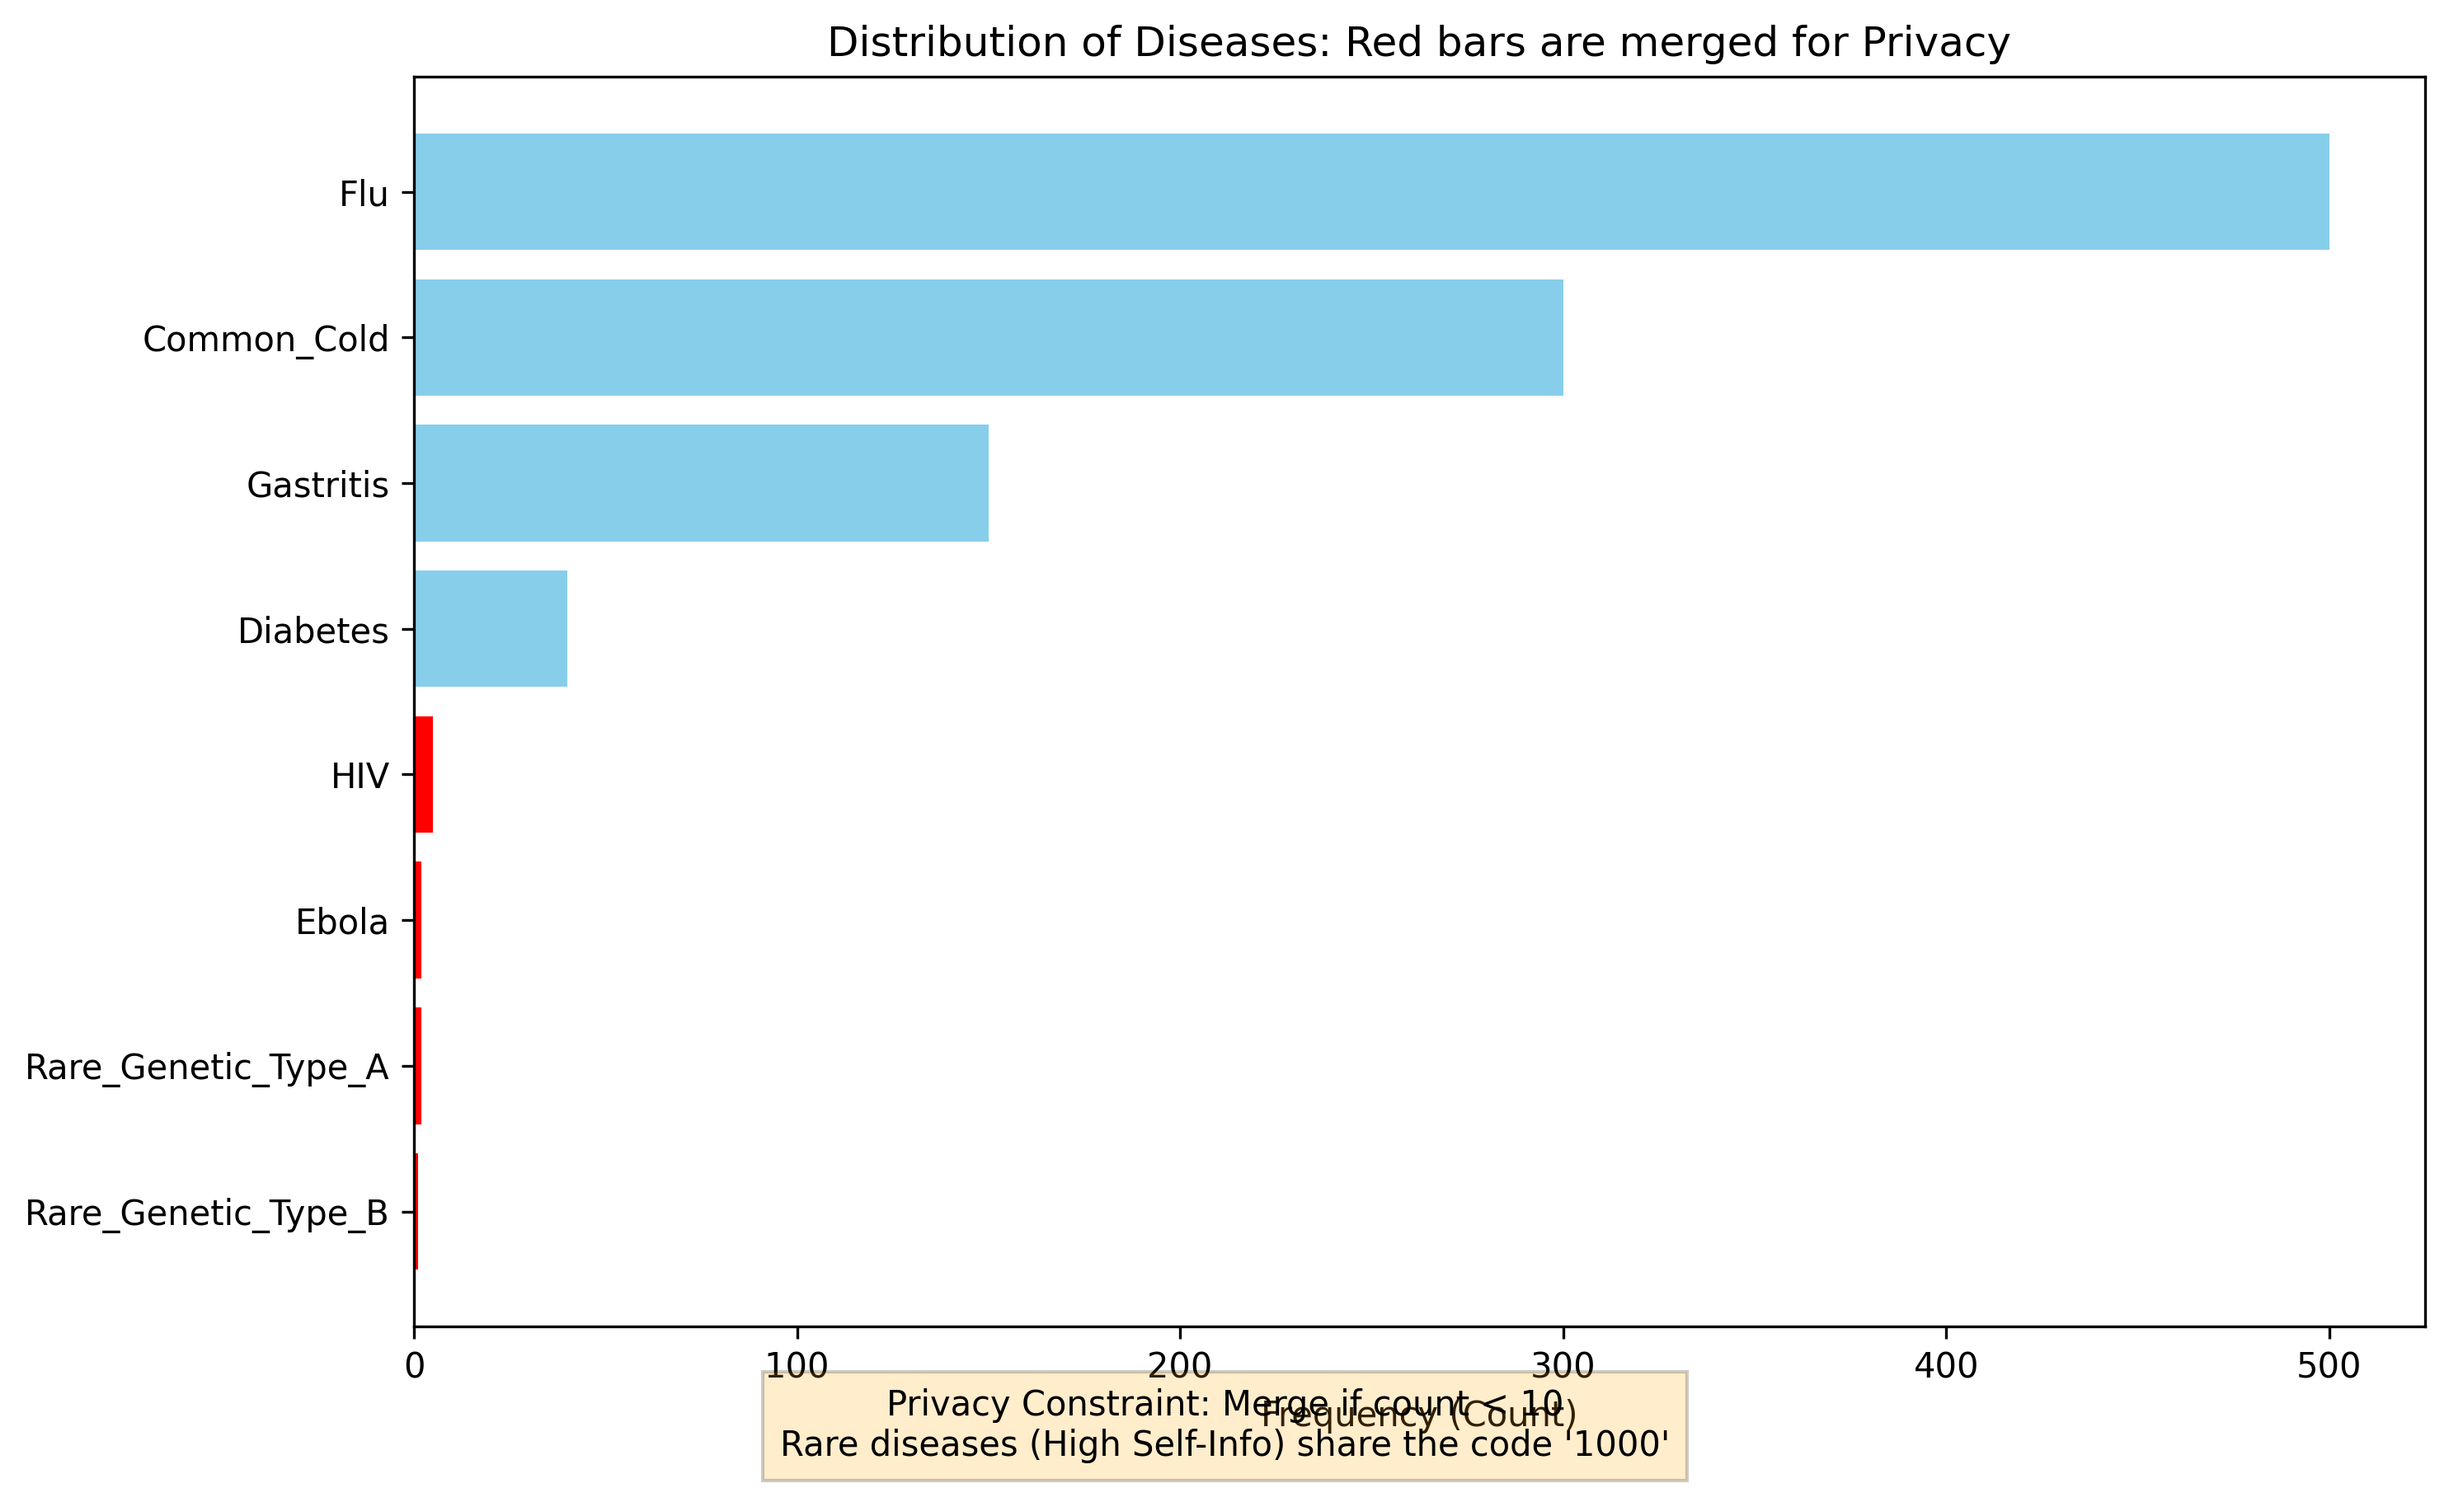
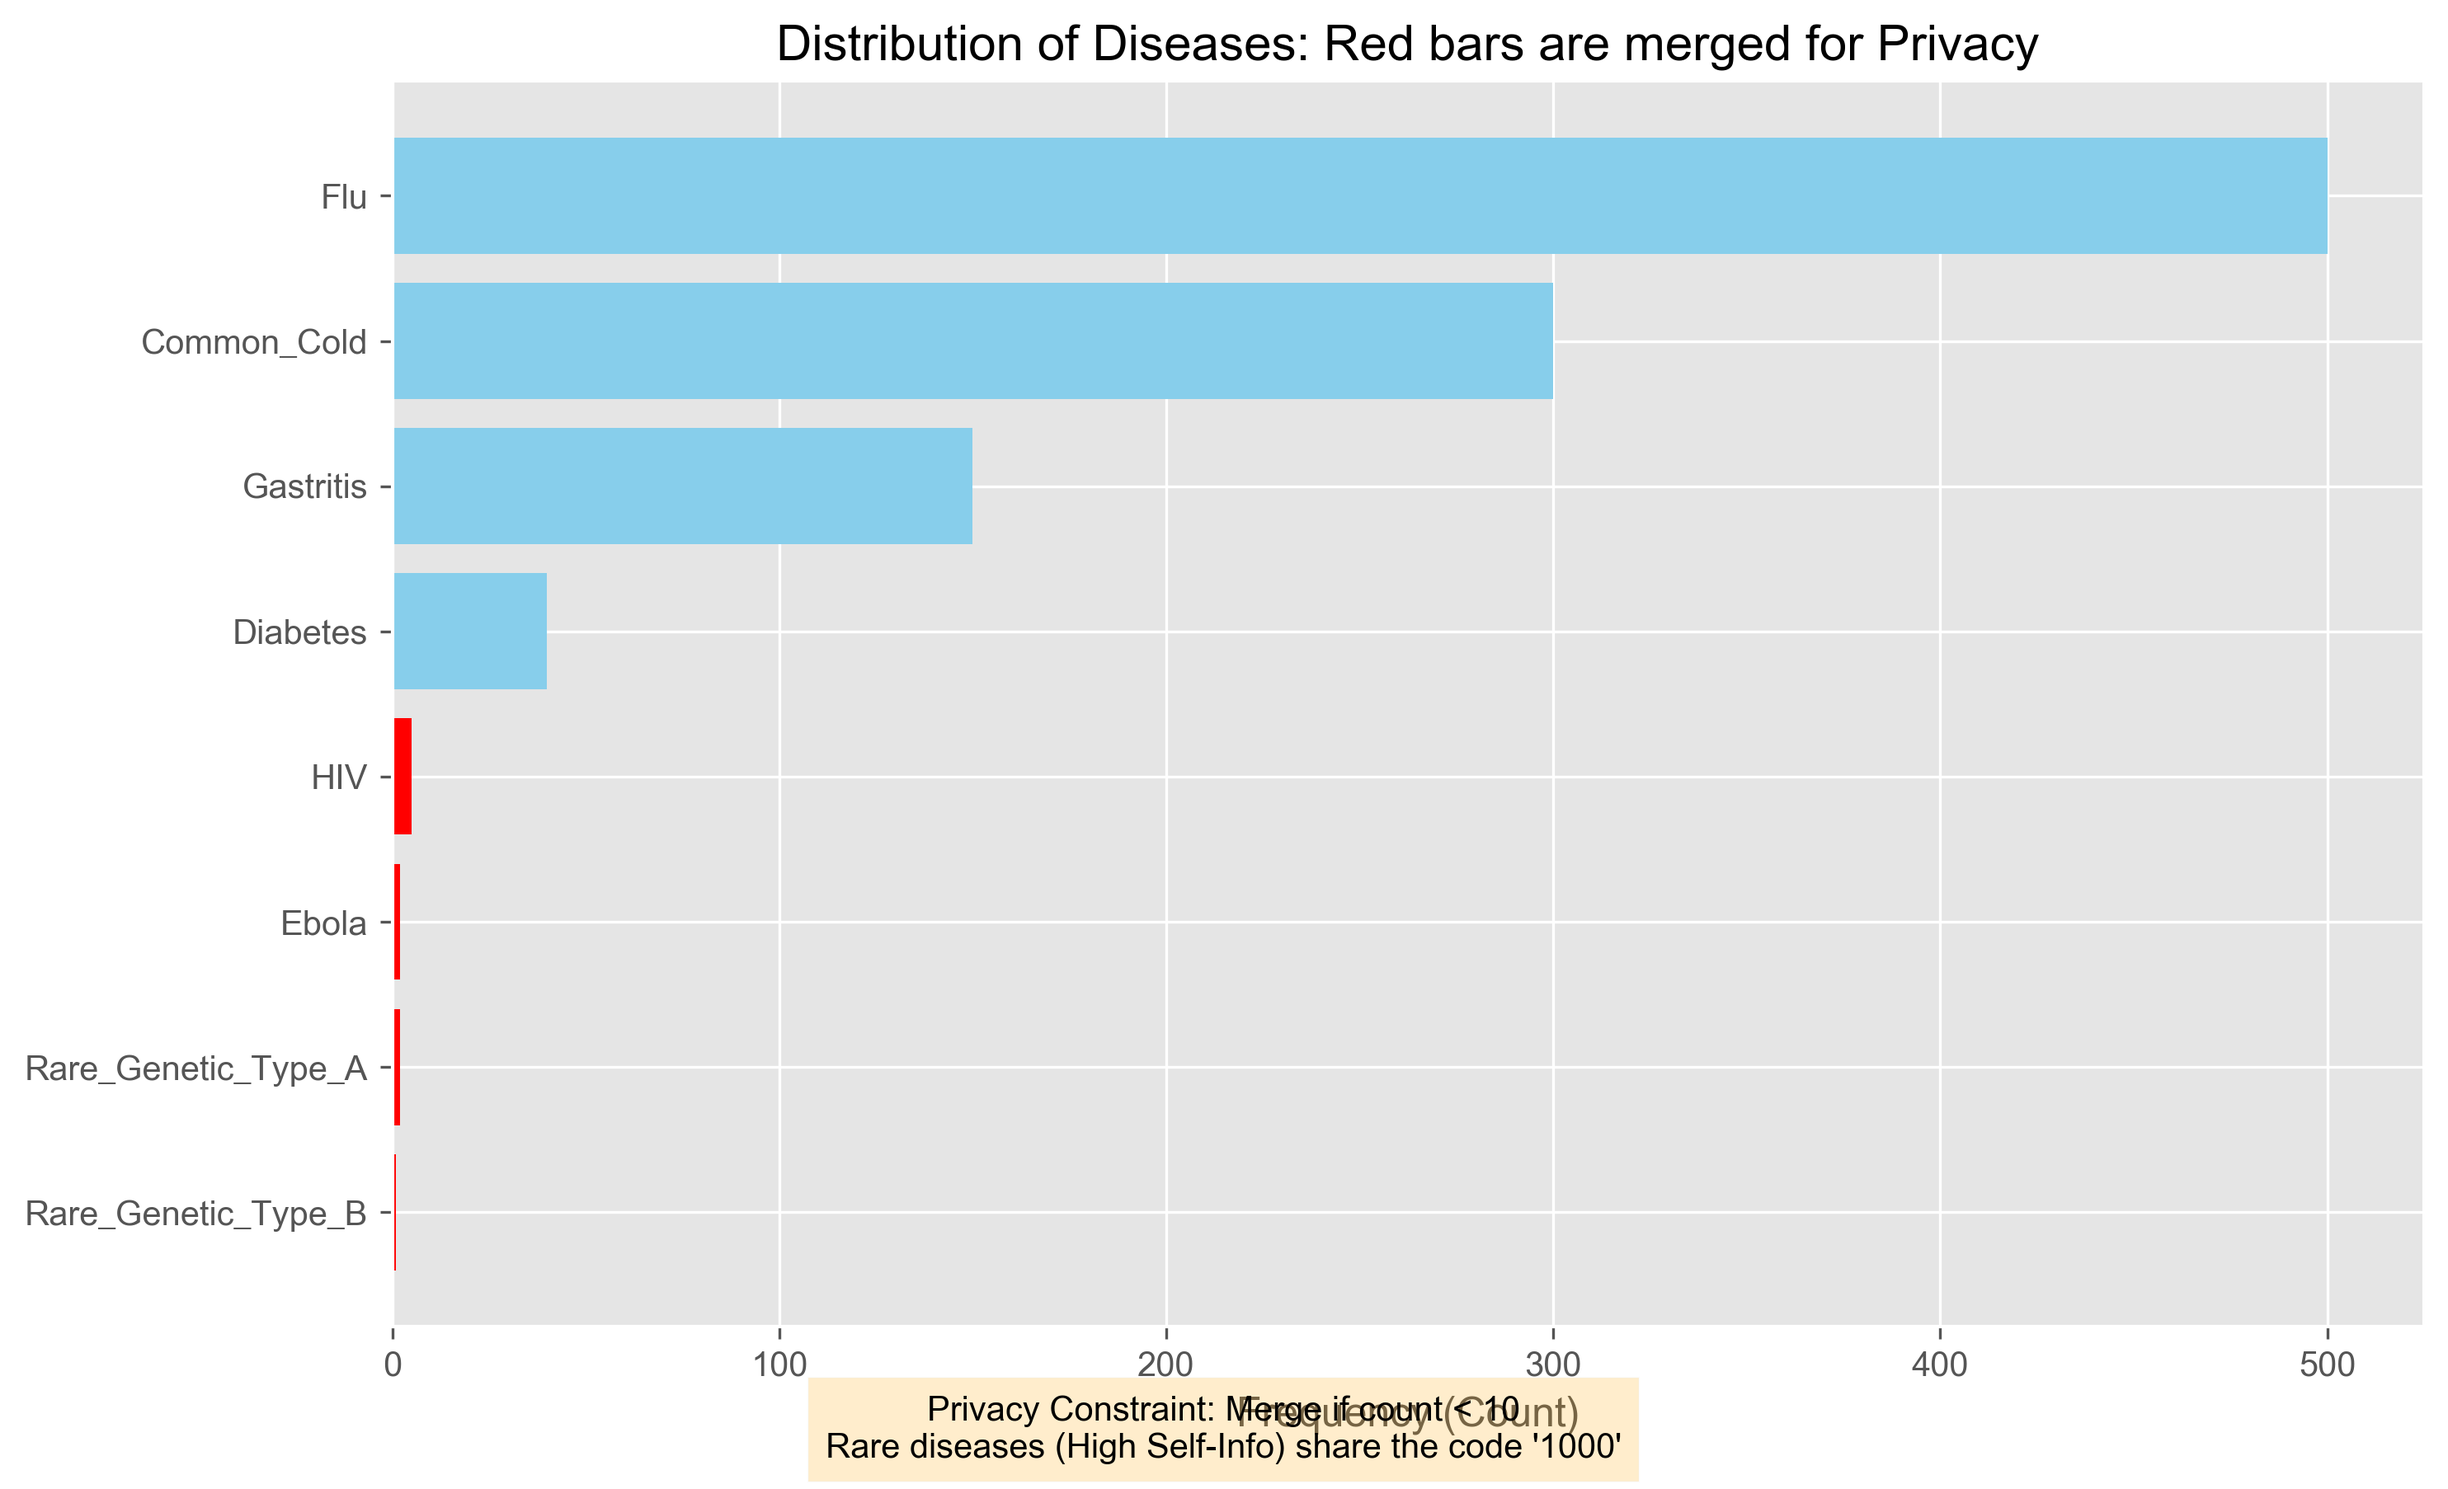
update drawings

diff --git a/Huffman.py b/Huffman.py
@@ -5,6 +5,12 @@ import pandas as pd
 import matplotlib.pyplot as plt
 import numpy as np
 
+# 设置绘图风格，使其看起来更像学术论文
+plt.style.use('ggplot') 
+# 解决中文显示问题 (如果有乱码，可以尝试注释掉这两行，或者换成英文字体)
+plt.rcParams['font.sans-serif'] = ['Arial Unicode MS', 'SimHei', 'DejaVu Sans']
+plt.rcParams['axes.unicode_minus'] = False
+
 # ==========================================
 # 1. 定义基础数据结构与 Huffman 类
 # ==========================================
